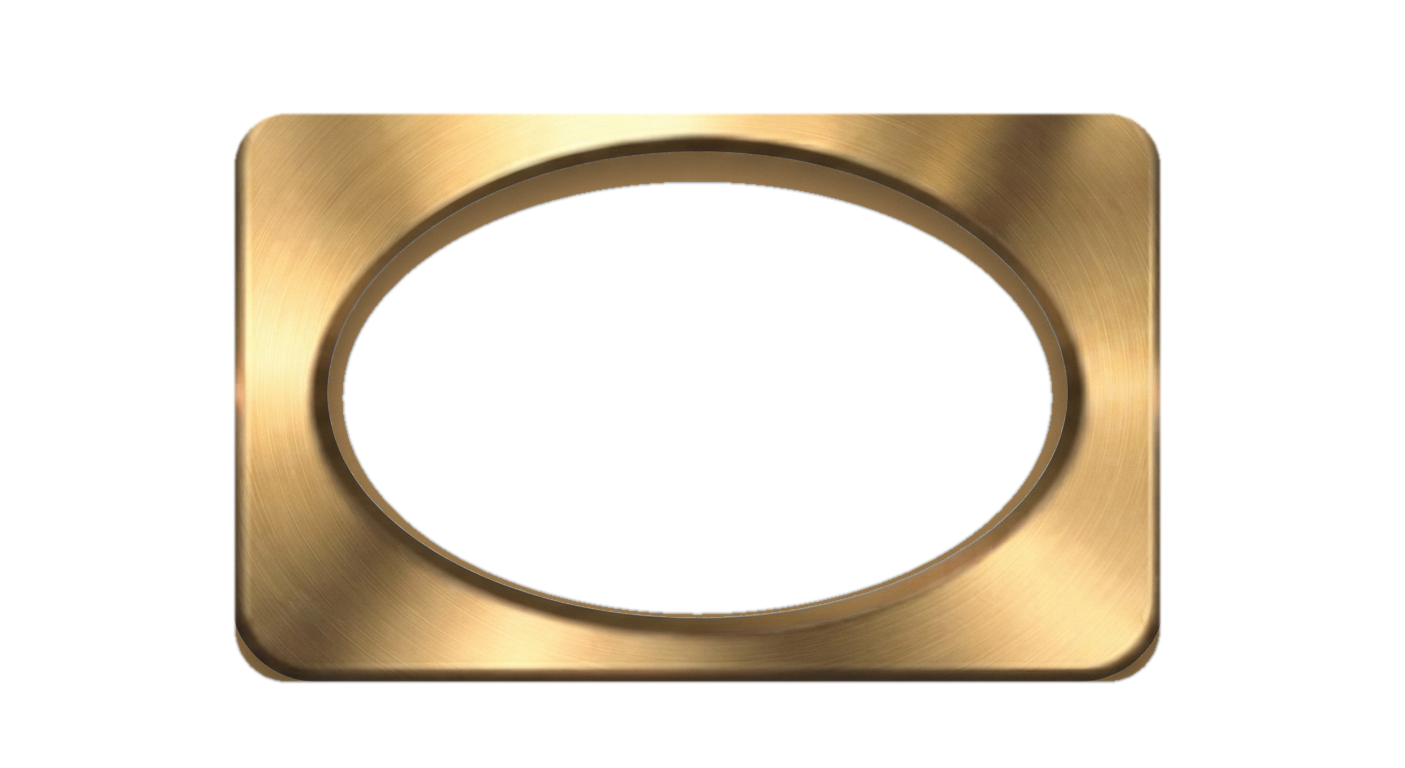
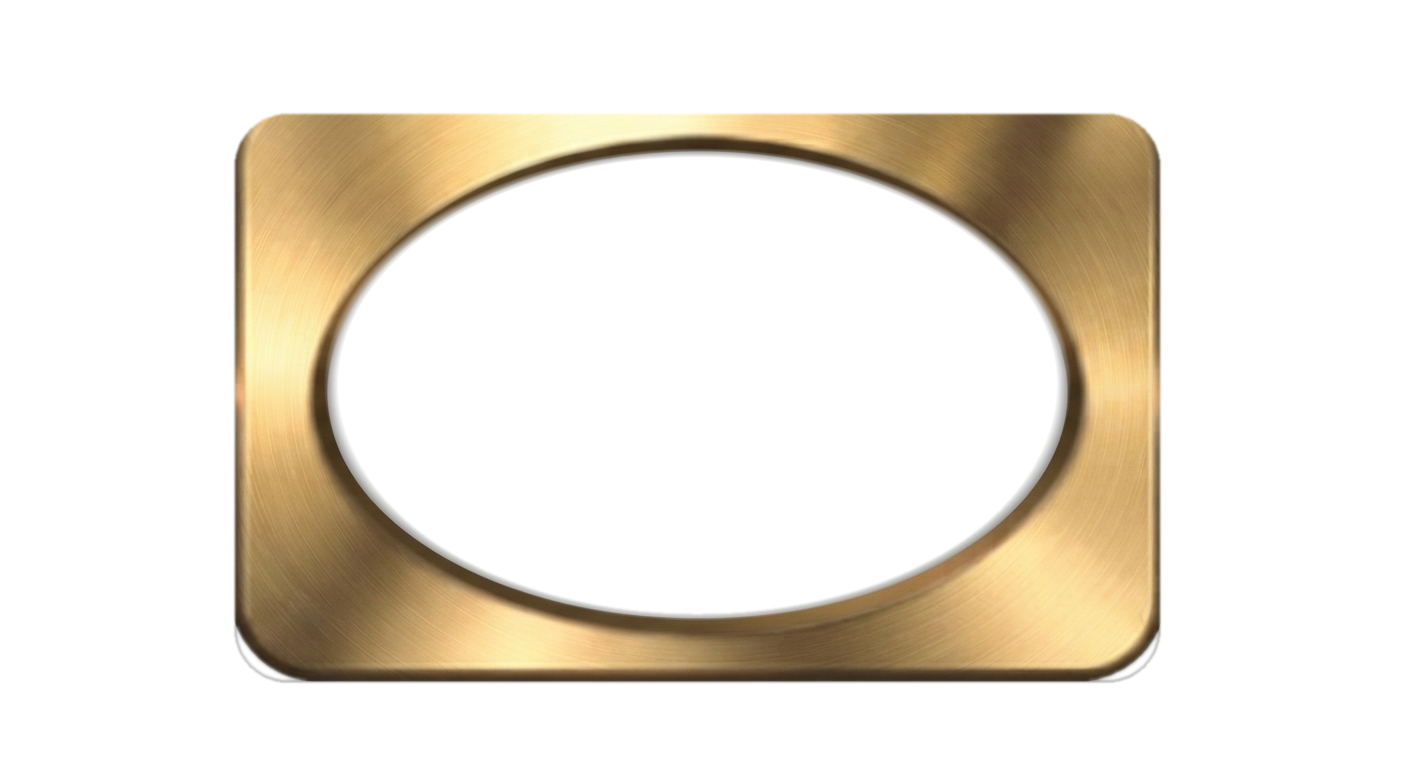
Warmler gold re-fix, candler double-ping
Warmler: the gold finish's oval hole was actually cut smaller than the
real metal artwork — re-measured the true widest points of the gold
texture itself and opened the hole (and the matching interactive fill
area) to match, instead of just recolouring the mismatched band as
before.

Candler: two pins landing at the same moment now get a deliberate,
clearly two-beat ping instead of two identical chimes starting in
perfect unison and blurring into one.

diff --git a/candler/index.html b/candler/index.html
@@ -791,6 +791,25 @@ function ring() {
   });
 }
 
+// when two pins land within the same instant, two full rings starting at
+// the exact same moment just blur into one thicker tone rather than
+// reading as "two things happened" — so landings are coalesced over a
+// brief window, and two-or-more within it get a deliberate rapid double
+// ping instead, spaced far enough apart to actually be heard as two
+let pinLandings = [];
+let pinLandTimer = null;
+const SIMULTANEOUS_LANDING_MS = 80;
+function pinLanded() {
+  pinLandings.push(Date.now());
+  clearTimeout(pinLandTimer);
+  pinLandTimer = setTimeout(() => {
+    const count = pinLandings.length;
+    pinLandings = [];
+    ring();
+    if (count > 1) setTimeout(ring, 150);
+  }, SIMULTANEOUS_LANDING_MS);
+}
+
 // tiny extinguish sound — a short filtered noise burst, not a bell.
 // "Tiny fssst sound — it's just the visible end of the candle"
 function fssst() {
@@ -1267,7 +1286,7 @@ function firePin(pin) {
   // The pin stays right where it landed afterward, resting on the plate,
   // instead of disappearing.
   setTimeout(() => {
-    ring();
+    pinLanded();
     pin.fallen = true;
     renderPinList();
     // once every pin you've set has rung, repeat (if on) keeps chiming

diff --git a/warmler/index.html b/warmler/index.html
@@ -231,7 +231,7 @@
     'diamond-plate': {cx:0.4954, cy:0.4987, rx:0.2543, ry:0.2891},
     'aged-brass':    {cx:0.4968, cy:0.5000, rx:0.2584, ry:0.2995},
     'brass':         {cx:0.4972, cy:0.5033, rx:0.2594, ry:0.2988},
-    'gold':          {cx:0.4961, cy:0.5176, rx:0.2520, ry:0.2806},
+    'gold':          {cx:0.4961, cy:0.5000, rx:0.2633, ry:0.3047},
     'silver':        {cx:0.4968, cy:0.5007, rx:0.2591, ry:0.3001},
     'copper':        {cx:0.4972, cy:0.4980, rx:0.2502, ry:0.2858},
     'aged-copper':   {cx:0.4964, cy:0.5052, rx:0.2618, ry:0.2982},
